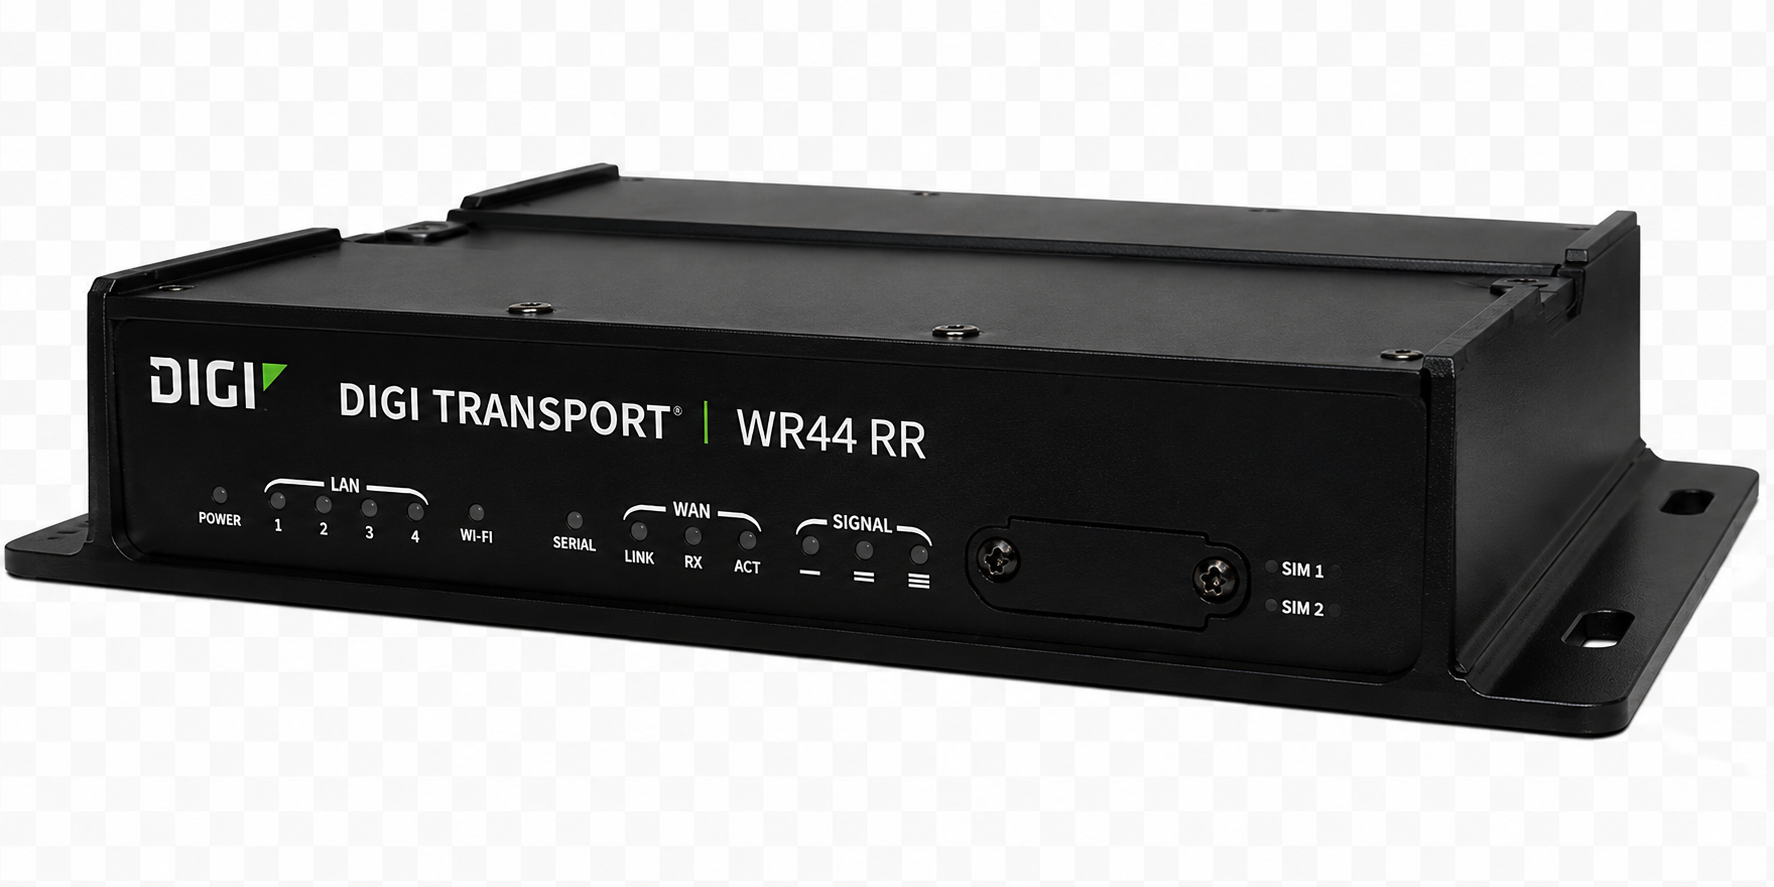
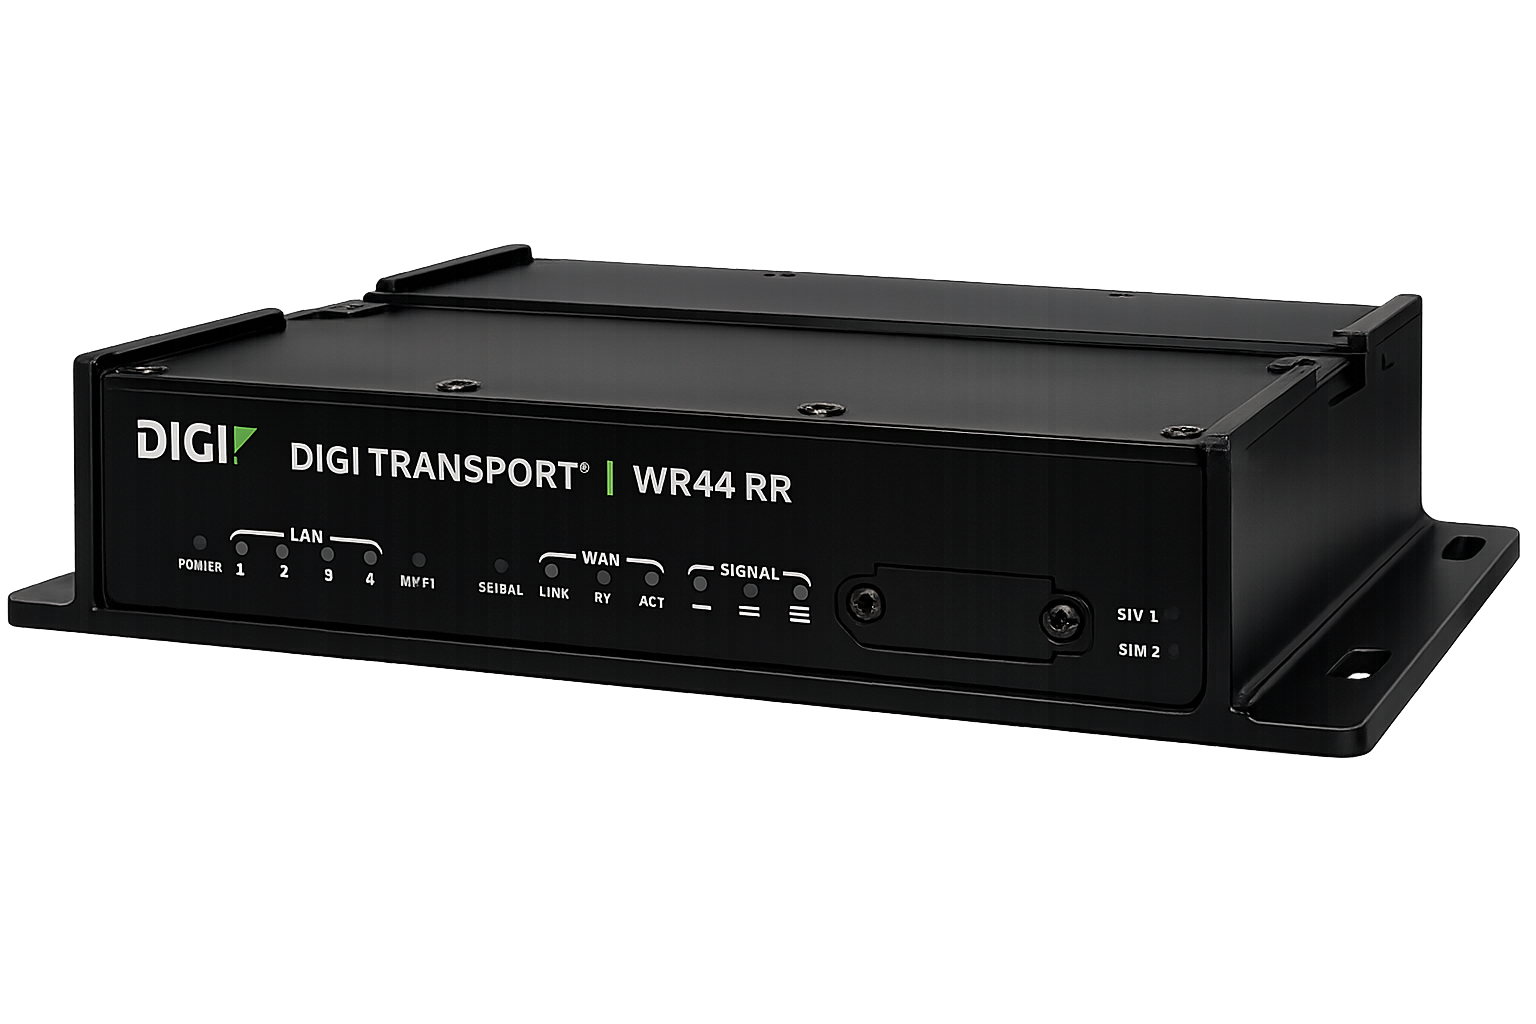
fixed backgrounds

Changed region(s): [[0.0, 0.1826, 1.0, 0.8523], [0.1875, 0.4262, 0.5312, 0.5175], [0.5625, 0.5784, 0.5938, 0.6392]]

diff --git a/renderer.js b/renderer.js
@@ -177,7 +177,7 @@ const LOCKED_ITEM_IMAGES = {
   WR21: 'img/digi-transport-wr21.png',
   WR31: 'https://www.digi.com/products/assets/products/digitransportwr31',
   WR44: 'img/digi-transport-wr44-rr.png',
-  WR54: 'https://hub.digi.com/dp/path=/image/product-line/tx54,fmt=square400,bg=ffffff,c=0,v=1',
+  WR54: 'img/tx54.png',
   'EZ WS': 'img/digi-connect-ez-4-ws.png',
   'EZ TS': 'img/Digi-Connect-EZ-4-TS.png',
   'EZ Mini': 'img/digi-connect-ez-mini.png',
@@ -196,12 +196,12 @@ const LOCKED_ITEM_IMAGES = {
   'Digi IX40 5G Edge Computing Industrial IoT Solution': 'img/digi-ix40.png',
   'Digi TX40 5G Cellular Router': 'img/digi-tx40.png',
   'Digi TX54 5G / LTE-Advanced Cellular Router': 'img/tx54.png',
-  'Digi TX64 5G / LTE-Advanced Pro Cellular Router': 'img/tx64-5gbadge.png',
-  'Digi TX64 5G Rail Cellular Router': 'img/digi-tx64-r-5gbadge.png',
+  'Digi TX64 5G / LTE-Advanced Pro Cellular Router': 'img/tx64-front.png',
+  'Digi TX64 5G Rail Cellular Router': 'img/digi-tx64-r.png',
   'Digi EX12 Cellular Extender': 'img/digi-ex12.png',
   'Digi EX15 Cellular Extender': 'img/Digi-EX15.png',
   'Digi EX50 5G Cellular Extender': 'img/digi-ex50-new.png',
-  'Digi CORE plug-in LTE modem': 'img/digi-core-cm-18.jpg'
+  'Digi CORE plug-in LTE modem': 'img/digi-core-cm-18.png'
 };
 const LOCKED_ITEM_IMAGE_VARIANTS = {
   '2 Plus': [
@@ -273,6 +273,16 @@ const LOCKED_ITEM_IMAGE_VARIANTS = {
     'img/digi-tx40-front.png',
     'img/digi-tx40-back-5g.png'
   ],
+  'Digi TX64 5G / LTE-Advanced Pro Cellular Router': [
+    'img/tx64-front.png',
+    'img/tx64.png',
+    'img/tx64-back.png'
+  ],
+  'Digi TX64 5G Rail Cellular Router': [
+    'img/digi-tx64-r.png',
+    'img/digi-tx64-r-back.png',
+    'img/digi-tx64-r-front.png'
+  ],
   'Digi EX12 Cellular Extender': [
     'img/digi-ex12.png',
     'img/digi-ex12-left.png',
@@ -333,9 +343,10 @@ const LOCKED_ITEM_IMAGE_VARIANTS = {
     'img/digi-connect-ez-32.png'
   ],
   'Digi CORE plug-in LTE modem': [
-    'img/digi-core-cm-18.jpg',
     'img/digi-core-cm-18.png',
-    'img/Digi-CORE-1002-CM-back.png'
+    'img/Digi-CORE-1002-CM-back.png',
+    'img/Digi-ex15-CORE-animation-web.gif',
+    'img/digi-ix20-with-digi-core-modem-animation.gif'
   ]
 };
 const PRODUCT_LINKS = {
@@ -3683,11 +3694,11 @@ const DEVICE_MODEL_IMAGES = [
   ['ex50', 'img/digi-ex50-new.png'],
   ['ex15', 'img/Digi-EX15.png'],
   ['ex12', 'img/digi-ex12.png'],
-  ['tx64', 'img/digi-tx64-r-5gbadge.png'],
+  ['tx64', 'img/digi-tx64-r.png'],
   ['tx54', 'img/tx54.png'],
   ['tx40', 'img/digi-tx40.png'],
-  ['core-cm', 'img/digi-core-cm-18.jpg'],
-  ['cm18', 'img/digi-core-cm-18.jpg'],
+  ['core-cm', 'img/digi-core-cm-18.png'],
+  ['cm18', 'img/digi-core-cm-18.png'],
 ];
 
 function getDeviceProductImage(name) {
